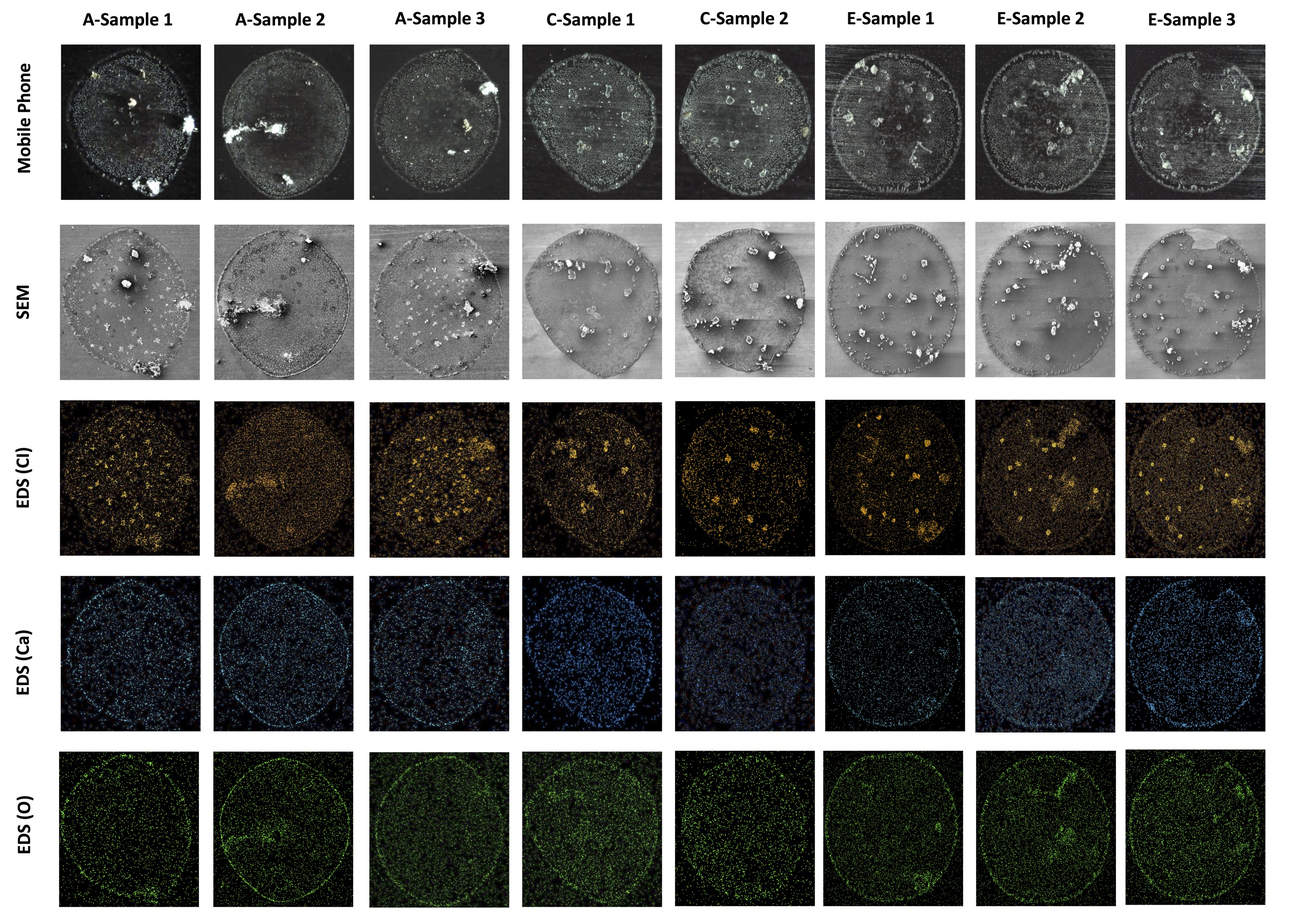
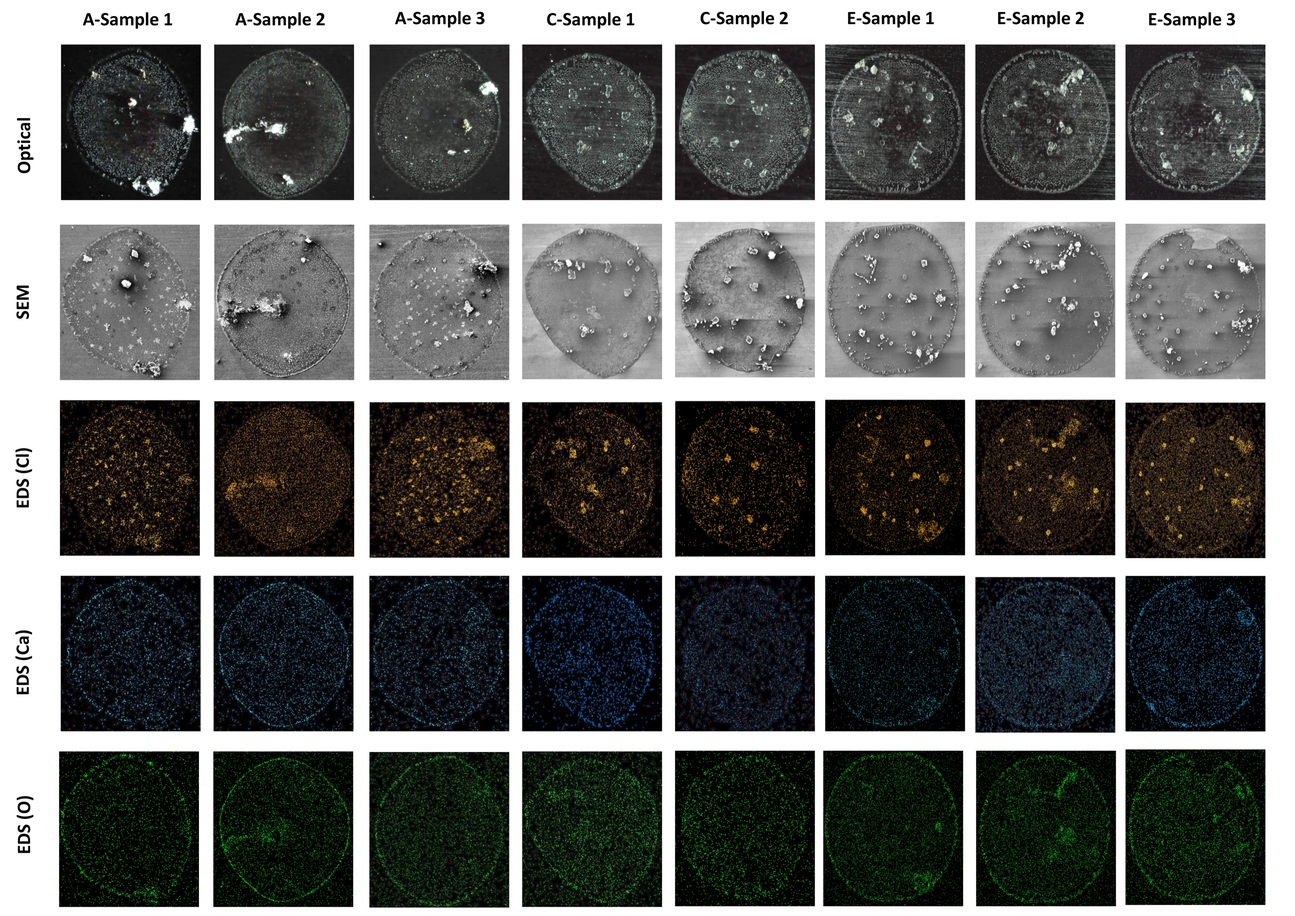
Correct optical modality: Celestron digital microscope, not mobile phone; fix EDS (Cl) label in overview figure

diff --git a/experiment/generate_data_overview.py b/experiment/generate_data_overview.py
@@ -23,10 +23,10 @@ fig, axes = plt.subplots(3, 5, figsize=(16, 10),
                                       'height_ratios': [1, 1, 0.79]})
 
 labels_col = ['Sample 2', 'Sample 3', 'Sample 4', 'Sample 5', 'Sample 6']
-labels_row = ['Mobile Phone', 'SEM', 'EDS (Cl)']
+labels_row = ['Optical', 'SEM', 'EDS (Cl)']
 
 for col, sid in enumerate(samples):
-    # Mobile phone
+    # Optical microscope
     img = mpimg.imread(str(data_root / 'optical' / cond / f'Image_{sid}.jpg'))
     axes[0, col].imshow(img)
     axes[0, col].set_title(labels_col[col], fontsize=14, fontweight='bold', pad=5)

diff --git a/experiment/dataset_statistical_analysis.py b/experiment/dataset_statistical_analysis.py
@@ -2,7 +2,7 @@
 """
 Comprehensive Statistical Analysis of Multi-modal Environmental Water Sample Dataset
 This script analyzes the correlation between environmental conditions and water sample characteristics
-using both normal cell phone images and SEM images.
+using both optical microscope images and SEM images.
 """
 
 import os

diff --git a/README.md b/README.md
@@ -14,9 +14,9 @@ This repository contains the analysis code for a **physically-grounded multi-mod
 Unlike semantically paired multi-modal datasets, the three modalities in this dataset image the **same physical deposit** through fundamentally different measurement principles — grounding cross-modal correspondence in shared physical structure rather than human annotation.
 
 <p align="center">
-  <img src="assets/data_overview.jpg" width="90%" alt="Multi-modal data overview showing mobile phone, SEM, and EDS elemental maps across conditions A, C, and E">
+  <img src="assets/data_overview.jpg" width="90%" alt="Multi-modal data overview showing optical microscope, SEM, and EDS elemental maps across conditions A, C, and E">
   <br>
-  <em>Representative multi-modal images across three environmental conditions (A, C, E). Rows from top to bottom: mobile phone images, SEM images, and EDS elemental maps for Cl (orange), Ca (blue), and O (green).</em>
+  <em>Representative multi-modal images across three environmental conditions (A, C, E). Rows from top to bottom: optical microscope images, SEM images, and EDS elemental maps for Cl (orange), Ca (blue), and O (green).</em>
 </p>
 
 ---
@@ -25,8 +25,8 @@ Unlike semantically paired multi-modal datasets, the three modalities in this da
 
 | Property | Details |
 |---|---|
-| **Modalities** | Mobile phone imaging · Scanning Electron Microscopy (SEM) · Energy-Dispersive X-ray Spectroscopy (EDS) |
-| **Total images** | 2,475 (225 phone + 225 SEM + 1,575 EDS + 450 corrected) |
+| **Modalities** | Digital optical microscopy (Celestron 5 MP, 100×) · Scanning Electron Microscopy (SEM) · Energy-Dispersive X-ray Spectroscopy (EDS) |
+| **Total images** | 2,475 (225 optical + 225 SEM + 1,575 EDS + 450 corrected) |
 | **Sample sets** | 225 (5 water compositions × 5 replicates × 9 conditions) |
 | **Environmental conditions** | 3×3 factorial: temperature (20–29°C) × humidity (35–50%) |
 | **Water compositions** | 5 synthetic samples based on Michigan water quality data |
@@ -57,7 +57,7 @@ Unlike semantically paired multi-modal datasets, the three modalities in this da
   <em>Cross-modal validation: (a) SSIM heatmap across environmental conditions, (b) feature interaction surface, (c) 3D feature density distribution, (d) per-condition SSIM distributions.</em>
 </p>
 
-Cross-modal correspondence is empirically verifiable: morphological features show r = 0.659 correlation between mobile phone and SEM images, demonstrating that the modalities capture physically linked information from the same deposit.
+Cross-modal correspondence is empirically verifiable: morphological features show r = 0.659 correlation between optical and SEM images, demonstrating that the modalities capture physically linked information from the same deposit.
 
 ---
 
@@ -88,11 +88,11 @@ chapter_3_data/
 
 ```
 data/
-├── optical/A–I/        # Mobile phone images (JPEG, 1280×1024, 225 total)
+├── optical/A–I/        # Optical microscope images (JPEG, 1280×1024, 225 total)
 ├── sem/A–I/            # SEM images (JPEG, 2560×1920, 225 total)
 │                       # + SEM instrument metadata (TXT, 225 total)
 ├── eds/A–I/            # EDS elemental maps (PNG, 630×472, 7 elements/sample, 1575 total)
-├── corrected_images/A–I/  # Preprocessed phone + SEM images (450 total)
+├── corrected_images/A–I/  # Preprocessed optical + SEM images (450 total)
 ├── features/           # Computer vision features (CSV, 91 features/pair)
 └── metadata/           # Environmental conditions, sample compositions, image stats
 ```
@@ -156,8 +156,8 @@ from pathlib import Path
 
 data_root = Path("path/to/data")
 
-# Load a mobile phone image (condition B, sample 3)
-phone_img = cv2.imread(str(data_root / "optical" / "B" / "Image_3.jpg"))
+# Load an optical microscope image (condition B, sample 3)
+optical_img = cv2.imread(str(data_root / "optical" / "B" / "Image_3.jpg"))
 
 # Load the corresponding SEM image
 sem_img = cv2.imread(str(data_root / "sem" / "B" / "SEM_3.jpg"), cv2.IMREAD_GRAYSCALE)
